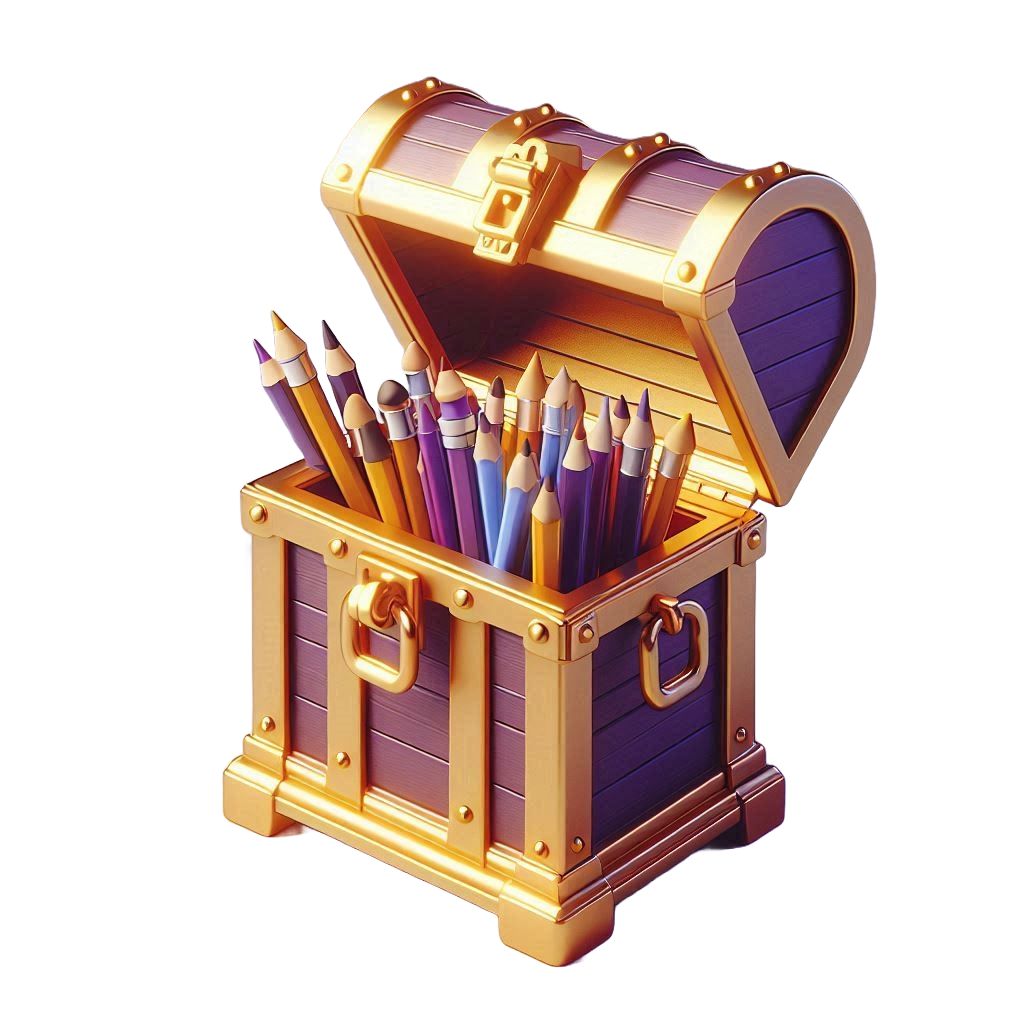
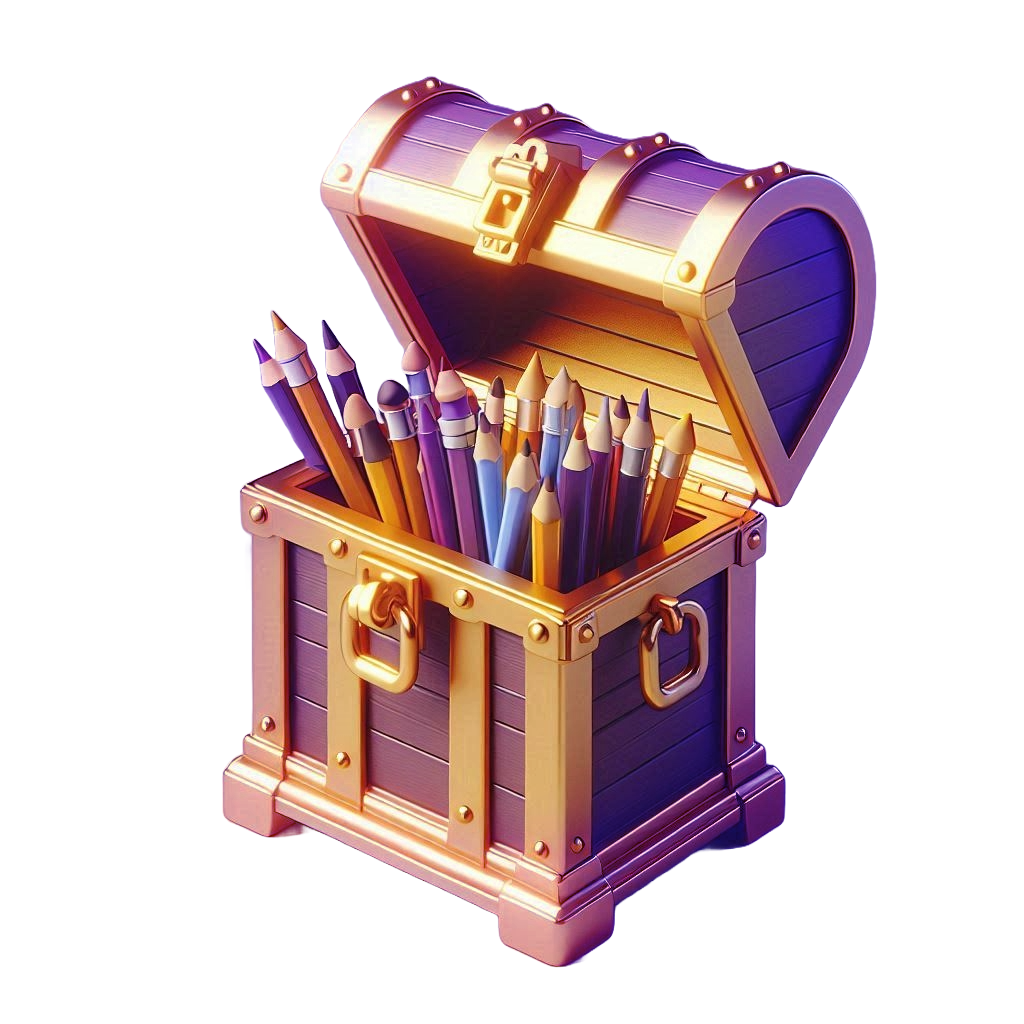
Changes to be committed: 	modified:   public/assets/img/images/roleta.png 	modified:   public/assets/img/images/tesouro.png 	new file:   public/assets/img/images/teste.png 	modified:   src/components/Main/Games.tsx

Changed region(s): [[0.2188, 0.0625, 0.875, 0.9688]]

diff --git a/src/components/Main/Games.tsx b/src/components/Main/Games.tsx
@@ -228,6 +228,7 @@ const Games: React.FC = () => {
 
         <div className="col-span-12 flex justify-between items-center mt-4 relative space-x-4">
           <div className="w-full sm:w-1/3 h-64 rounded-lg px-12 py-28 text-white relative bg-gradient-to-b from-[#1D1C49] to-[#323179] overflow-hidden">
+          <div className="ml-24 mt-28 absolute inset-0 bg-purple-700 opacity-90 blur-3xl transform translate-x-4 md:translate-x-8 pointer-events-none"></div>
             {/* Imagem de fundo */}
             <Image
               src="/assets/img/images/roleta.png"
@@ -235,7 +236,7 @@ const Games: React.FC = () => {
               layout="fill"
               objectFit="cover"
               quality={100}
-              className="absolute inset-0 w-full h-full z-10 ml-28 mt-7"
+              className="absolute inset-0 w-full h-full z-10 ml-32 mt-8 scale-75"
             />
             <h1 className="text-sm sm:text-base md:text-lg lg:text-xl xl:text-2xl 2xl:text-3xl font-semibold relative z-20">
             Salão das Chances
@@ -252,12 +253,12 @@ const Games: React.FC = () => {
             <div className="ml-24 mt-28 absolute inset-0 bg-blue-700 opacity-90 blur-3xl transform translate-x-4 md:translate-x-8 pointer-events-none"></div>
             {/* Imagem de fundo */}
             <Image
-              src="/assets/img/images/tesouro.png"
+              src="/assets/img/images/teste.png"
               alt="Modo Livre Imagem"
               layout="fill"
               objectFit="contain"
               quality={10}
-              className="absolute inset-0 w-full h-full z-10 scale-105 ml-24 mt-16"
+              className="absolute inset-0 w-full h-full z-10 scale-105 ml-24 mt-6"
             />
 
             <h1 className="text-sm sm:text-base md:text-lg lg:text-xl xl:text-2xl 2xl:text-3xl font-semibold relative z-20">
